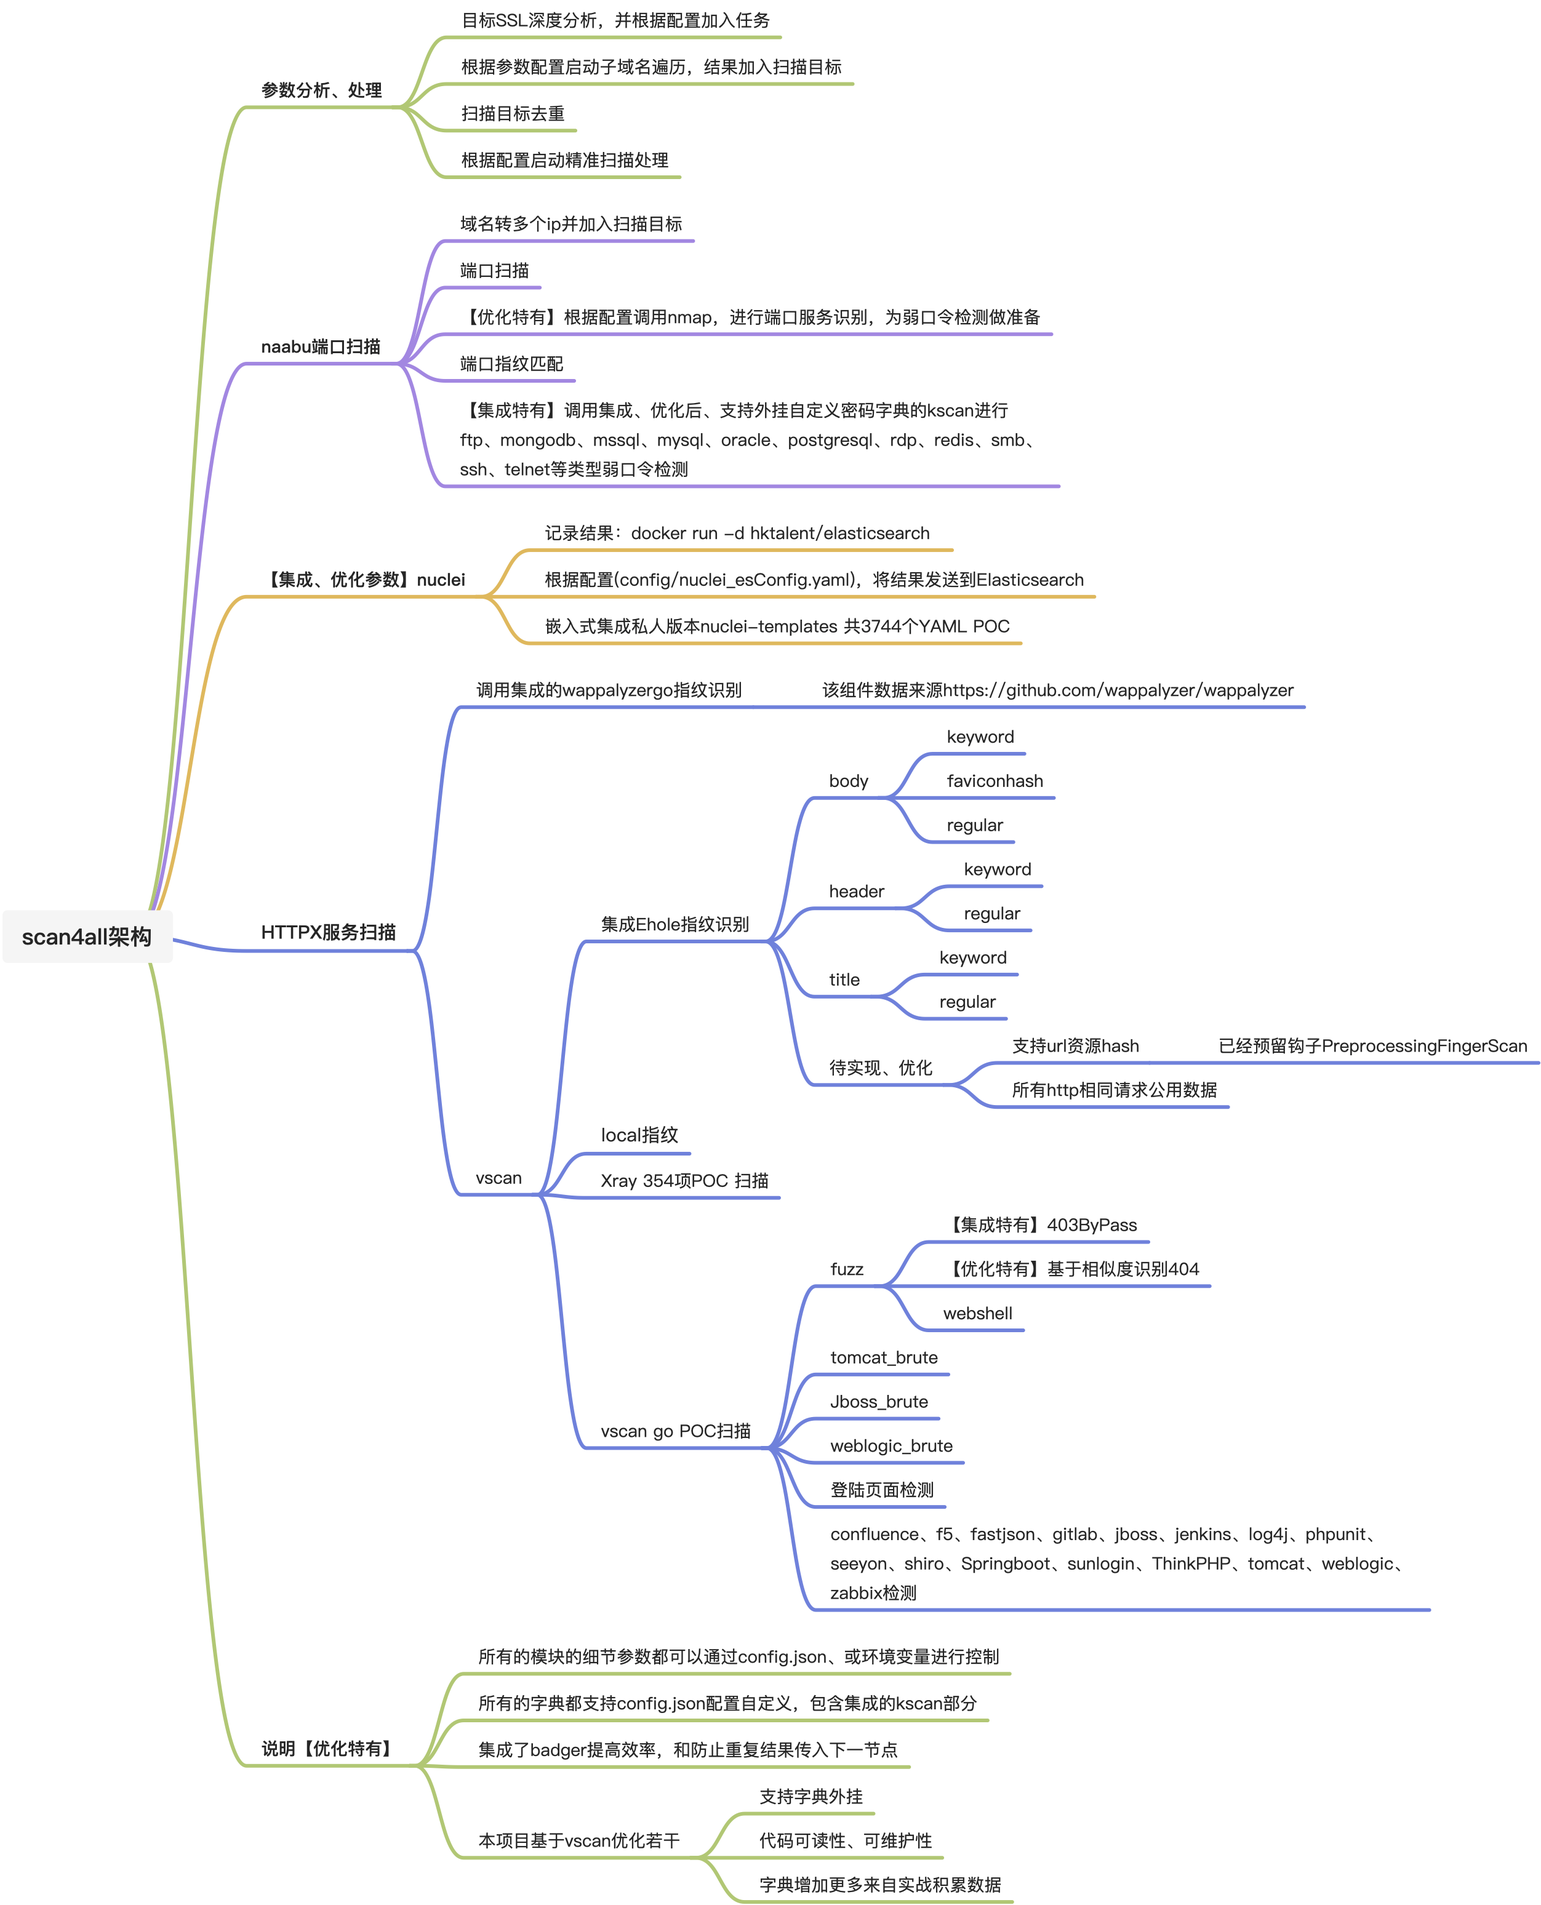
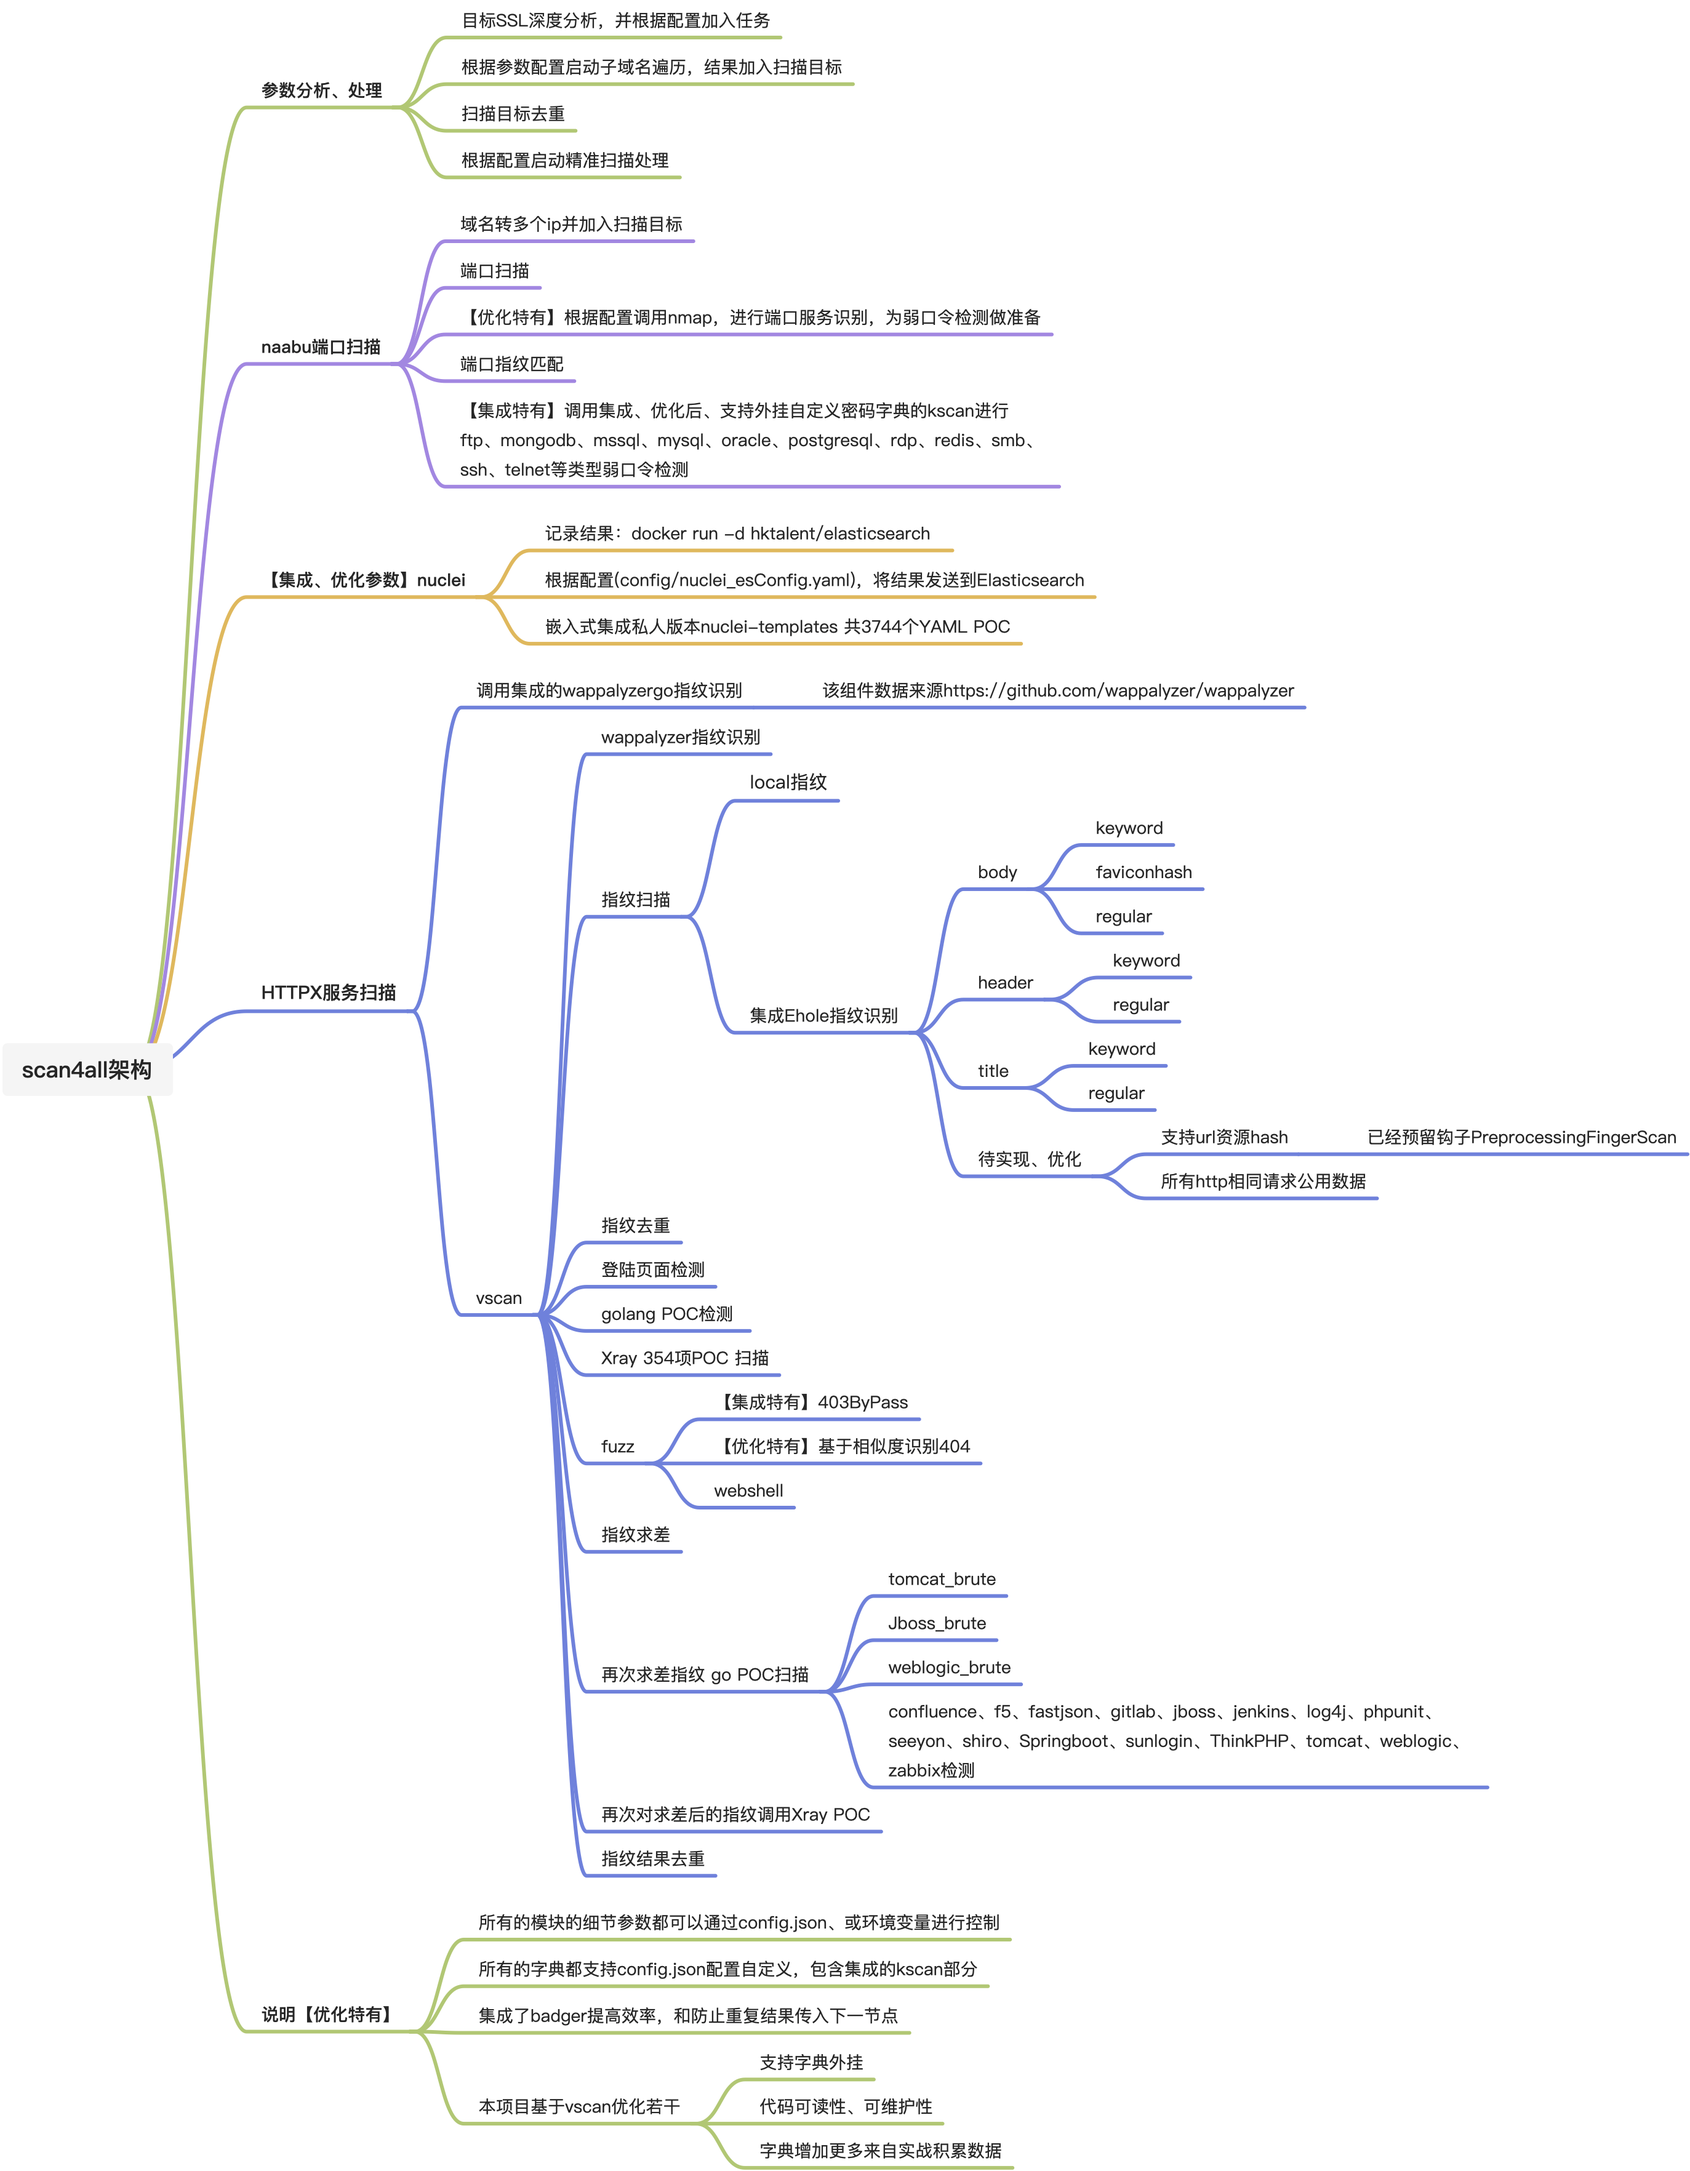
fix httpx，vscan结果未推送到ES的bug;2、更新workflow.jpg

diff --git a/pkg/httpx/runner/runner.go b/pkg/httpx/runner/runner.go
@@ -9,6 +9,7 @@ import (
 	"fmt"
 	"github.com/ammario/ipisp/v2"
 	"github.com/hktalent/scan4all/brute"
+	"github.com/hktalent/scan4all/pkg"
 	"github.com/hktalent/scan4all/pkg/fingerprint"
 	"github.com/hktalent/scan4all/pocs_go"
 	"github.com/hktalent/scan4all/pocs_yml"
@@ -692,6 +693,7 @@ func (r *Runner) process(t string, wg *sizedwaitgroup.SizedWaitGroup, hp *httpx.
 					go func(target, method, protocol string) {
 						defer wg.Done()
 						result := r.analyze(hp, protocol, target, method, t, scanopts)
+						go pkg.SendAnyData(result, "httpx")
 						output <- result
 						if scanopts.TLSProbe && result.TLSData != nil {
 							scanopts.TLSProbe = false
@@ -746,6 +748,7 @@ func (r *Runner) process(t string, wg *sizedwaitgroup.SizedWaitGroup, hp *httpx.
 						defer wg.Done()
 						h, _ := urlutil.ChangePort(target, fmt.Sprint(port))
 						result := r.analyze(hp, protocol, h, method, t, scanopts)
+						go pkg.SendAnyData(result, "httpx")
 						output <- result
 						if scanopts.TLSProbe && result.TLSData != nil {
 							scanopts.TLSProbe = false
@@ -1256,10 +1259,12 @@ retry:
 			}
 			return slice
 		}
+		// 登陆页面检测
 		if brute.CheckLoginPage(finalURL) {
 			technologies = append(technologies, "登录页面")
 		}
-		technologies = SliceRemoveDuplicates(technologies) // 指纹去重
+		// 指纹去重
+		technologies = SliceRemoveDuplicates(technologies)
 		if !scanopts.NoPOC {
 			intersect := func(slice1, slice2 []string) []string {
 				m := make(map[string]int)
@@ -1293,15 +1298,18 @@ retry:
 				}
 				return nn
 			}
-			poctechnologies1 = pocs_go.POCcheck(technologies, ul, finalURL, false) // //通过wFingerprint获取到的指纹进行检测gopoc check
+			//通过wFingerprint获取到的指纹进行检测gopoc check
+			poctechnologies1 = pocs_go.POCcheck(technologies, ul, finalURL, false)
 			Vullist = append(Vullist, poctechnologies1...)
 			for _, technology := range technologies {
 				pocYmlList1 := pocs_yml.Check(ul, scanopts.CeyeApi, scanopts.CeyeDomain, r.options.HTTPProxy, strings.ToLower(technology)) // 通过wFingerprint获取到的指纹进行ymlpoc check
 				Vullist = append(Vullist, pocYmlList1...)
 			}
-			filePaths, filefuzzTechnologies = brute.FileFuzz(ul, resp.StatusCode, resp.ContentLength, resp.Raw) // 敏感文件扫描
+			// 敏感文件扫描
+			filePaths, filefuzzTechnologies = brute.FileFuzz(ul, resp.StatusCode, resp.ContentLength, resp.Raw)
 			filefuzzTechnologies = SliceRemoveDuplicates(filefuzzTechnologies)
-			filefuzzTechnologies = difference(filefuzzTechnologies, technologies) // 取差集合
+			// 取差集合
+			filefuzzTechnologies = difference(filefuzzTechnologies, technologies)
 
 			poctechnologies2 = pocs_go.POCcheck(filefuzzTechnologies, ul, finalURL, true) //通过敏感文件扫描获取到的指纹进行检测gopoc check
 			Vullist = append(Vullist, poctechnologies2...)
@@ -1309,8 +1317,10 @@ retry:
 				pocYmlList2 := pocs_yml.Check(ul, scanopts.CeyeApi, scanopts.CeyeDomain, r.options.HTTPProxy, strings.ToLower(technology)) //通过敏感文件扫描获取到的指纹进行检测ymlpoc check
 				Vullist = append(Vullist, pocYmlList2...)
 			}
-			technologies = append(technologies, filefuzzTechnologies...) // 输出加入敏感文件扫描 获取到的指纹
-			technologies = SliceRemoveDuplicates(technologies)           // 指纹去重
+			// 输出加入敏感文件扫描 获取到的指纹
+			technologies = append(technologies, filefuzzTechnologies...)
+			// 指纹去重
+			technologies = SliceRemoveDuplicates(technologies)
 		}
 		if len(technologies) > 0 {
 			sort.Strings(technologies)

diff --git a/pkg/log.go b/pkg/log.go
@@ -2,7 +2,6 @@ package pkg
 
 import (
 	"fmt"
-	"github.com/davecgh/go-spew/spew"
 	"github.com/logrusorgru/aurora"
 	"github.com/projectdiscovery/gologger"
 	"os"
@@ -23,11 +22,6 @@ func GetPluginName(defaultVal string) string {
 	return defaultVal
 }
 
-// log message，Easy to send to ES result server
-func LogJson(logMsg interface{}) {
-	spew.Printf("%v", logMsg)
-}
-
 func GoPocLog(log string) {
 	builder := &strings.Builder{}
 	builder.WriteString("[")
@@ -39,9 +33,7 @@ func GoPocLog(log string) {
 	builder.WriteString("] ")
 	builder.WriteString(log)
 	fmt.Print(builder.String())
-	if Output != "" {
-		writeoutput(builder.String())
-	}
+	writeoutput(builder.String())
 }
 
 func YmlPocLog(log string) {
@@ -55,9 +47,7 @@ func YmlPocLog(log string) {
 	builder.WriteString("] ")
 	builder.WriteString(log)
 	fmt.Print(builder.String())
-	if Output != "" {
-		writeoutput(builder.String())
-	}
+	writeoutput(builder.String())
 }
 
 func BurteLog(log string) {
@@ -71,12 +61,14 @@ func BurteLog(log string) {
 	builder.WriteString("] ")
 	builder.WriteString(log)
 	fmt.Print(builder.String())
-	if Output != "" {
-		writeoutput(builder.String())
-	}
+	writeoutput(builder.String())
 }
 
 func writeoutput(log string) {
+	SendAnyData(log, "vscan")
+	if "" == Output {
+		return
+	}
 	f, err := os.OpenFile(Output, os.O_RDWR|os.O_CREATE|os.O_APPEND, 0644)
 	if err != nil {
 		gologger.Fatal().Msgf("Could not create output fiale '%s': %s\n", Output, err)

diff --git a/pkg/sv2es.go b/pkg/sv2es.go
@@ -2,6 +2,8 @@ package pkg
 
 import (
 	"bytes"
+	"crypto/sha1"
+	"encoding/hex"
 	"encoding/json"
 	"fmt"
 	"io/ioutil"
@@ -32,6 +34,17 @@ func Log(v ...any) {
 	log.Println(v...)
 }
 
+func SendAnyData(data interface{}, szType string) {
+	data1, _ := json.Marshal(data)
+	if 0 < len(data1) && "true" == GetVal("enableEsSv") {
+		hasher := sha1.New()
+		hasher.Write(data1)
+		k := hex.EncodeToString(hasher.Sum(nil))
+		go SendReq(data, k, szType)
+	}
+}
+
+// k is id
 func SendAData[T any](k string, data []T, szType string) {
 	if 0 < len(data) && "true" == GetVal("enableEsSv") {
 		m2 := make(map[string]interface{})
@@ -50,7 +63,7 @@ func SendReq(data1 interface{}, id, szType string) {
 	defer func() {
 		<-nThreads
 	}()
-	url := esUrl + szType + "_index/_doc/" + url.QueryEscape(id)
+	url := fmt.Sprintf(esUrl, szType, url.QueryEscape(id))
 	req, err := http.NewRequest("POST", url, bytes.NewReader(data))
 	if err != nil {
 		Log(fmt.Sprintf("%s error %v", id, err))

diff --git a/pkg/hydra/runner.go b/pkg/hydra/runner.go
@@ -33,6 +33,7 @@ func Start(IPAddr string, Port int, Protocol string) {
 	var out AuthInfo
 	for info := range crack.Out {
 		out = info
+		pkg.SendAData[AuthInfo](fmt.Sprintf("%s:%d", out.IPAddr, out.Port), []AuthInfo{out}, "hydra")
 	}
 	log.Println(out)
 	//crack.Pool.Wait()

diff --git a/pocs_yml/check/check.go b/pocs_yml/check/check.go
@@ -2,9 +2,9 @@ package check
 
 import (
 	"fmt"
+	"github.com/hktalent/scan4all/pkg"
 	"github.com/pkg/errors"
 	"github.com/projectdiscovery/gologger"
-	"github.com/hktalent/scan4all/pkg"
 	"io"
 	"net"
 	"net/http"

diff --git a/README.md b/README.md
@@ -127,11 +127,7 @@ scan4all -h
 mkdir -p logs data
 docker run --restart=always --ulimit nofile=65536:65536 -p 9200:9200 -p 9300:9300 -d --name es -v $PWD/logs:/usr/share/elasticsearch/logs -v $PWD/config/elasticsearch.yml:/usr/share/elasticsearch/config/elasticsearch.yml -v $PWD/config/jvm.options:/usr/share/elasticsearch/config/jvm.options  -v $PWD/data:/usr/share/elasticsearch/data  hktalent/elasticsearch:7.16.2
 # 初始化es 索引,每种工具的结果结构不一样，分开存储
-config/CreateEs.sh nmap
-config/CreateEs.sh naabu
-config/CreateEs.sh httpx
-config/CreateEs.sh nuclei
-config/CreateEs.sh vscan
+./config/initEs.sh
 
 # 搜索语法，更多的查询方法，自己学 Elasticsearch
 http://127.0.0.1:9200/nmap_index/_doc/_search?q=_id:192.168.0.111
